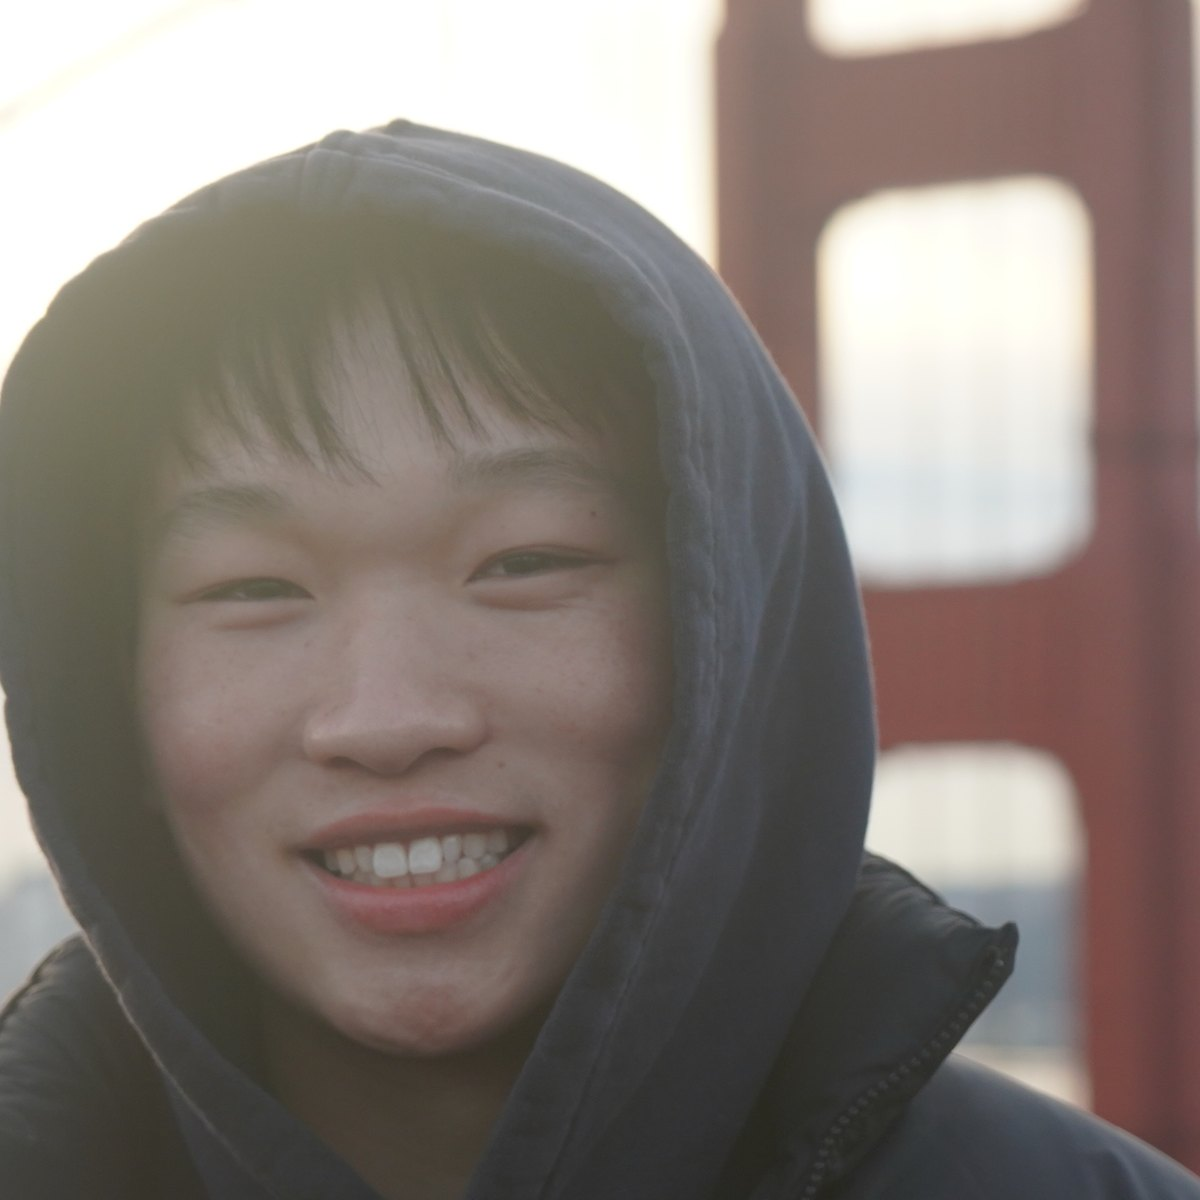
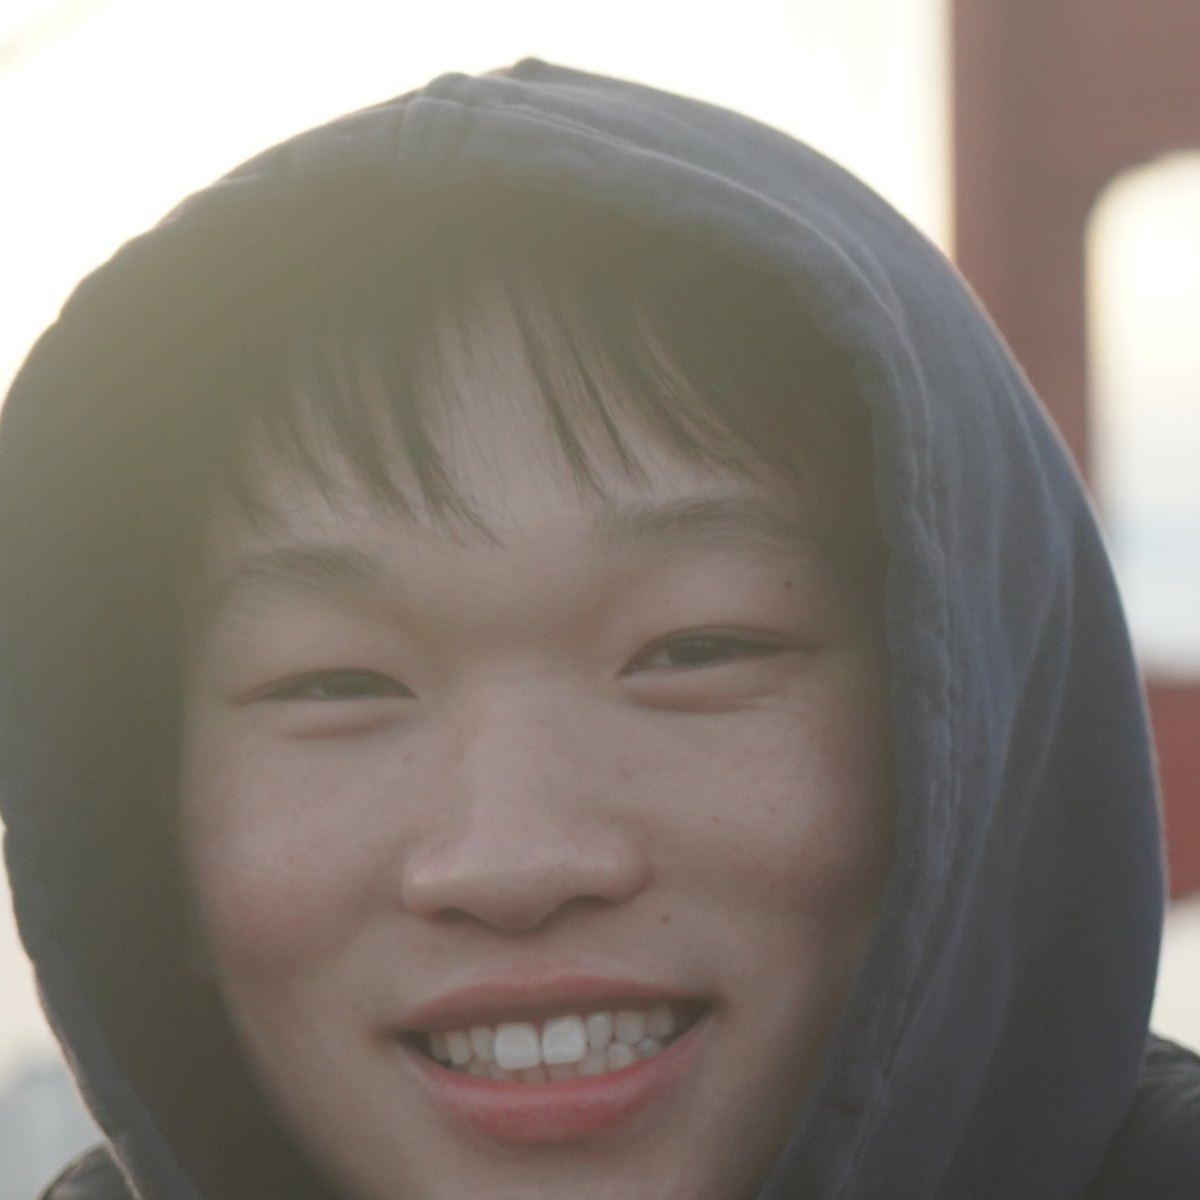
Recenter the About portrait crop on the face
Adjust the square crop so Connor sits in the middle of the circular
photo instead of drifting left.

diff --git a/src/pages/About.css b/src/pages/About.css
@@ -20,8 +20,11 @@
   border: 3px solid var(--page-light-border);
   box-shadow: 0 12px 32px var(--page-light-shadow);
   object-fit: cover;
-  object-position: center 20%;
+  object-position: center center;
   margin-bottom: 1.35rem;
+  display: block;
+  margin-left: auto;
+  margin-right: auto;
 }
 
 .about-content h1 {
